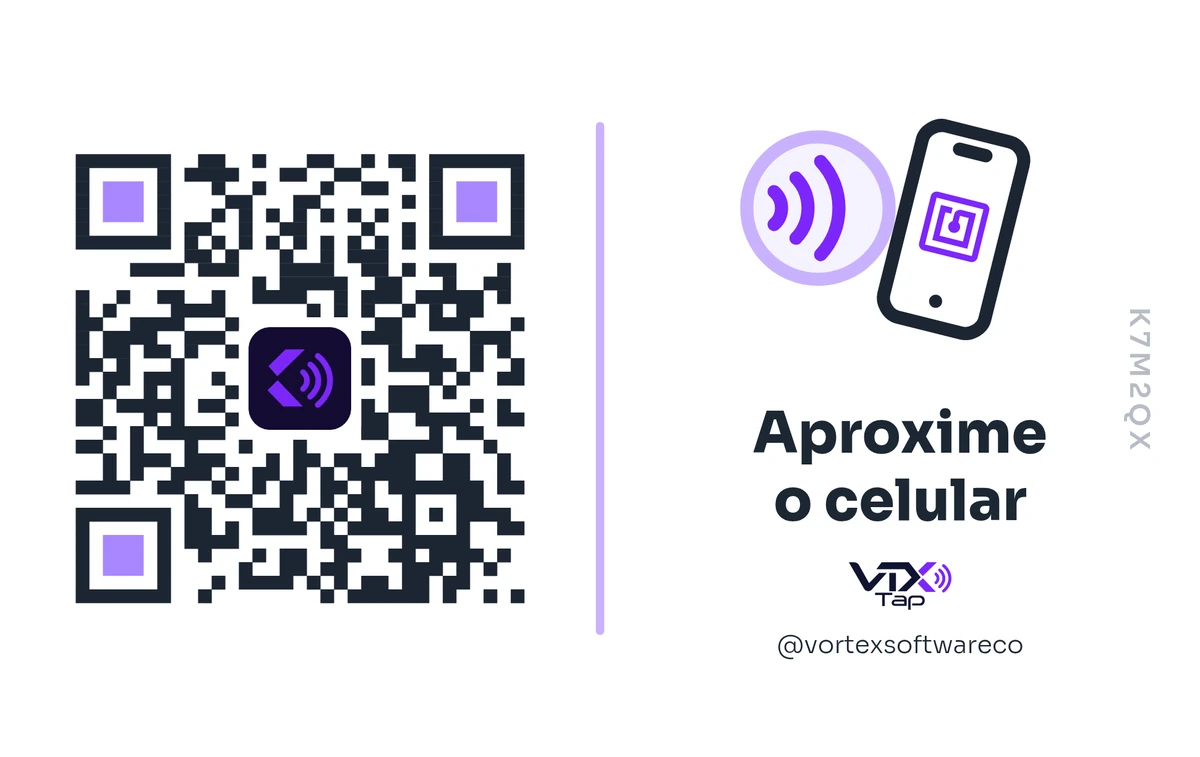
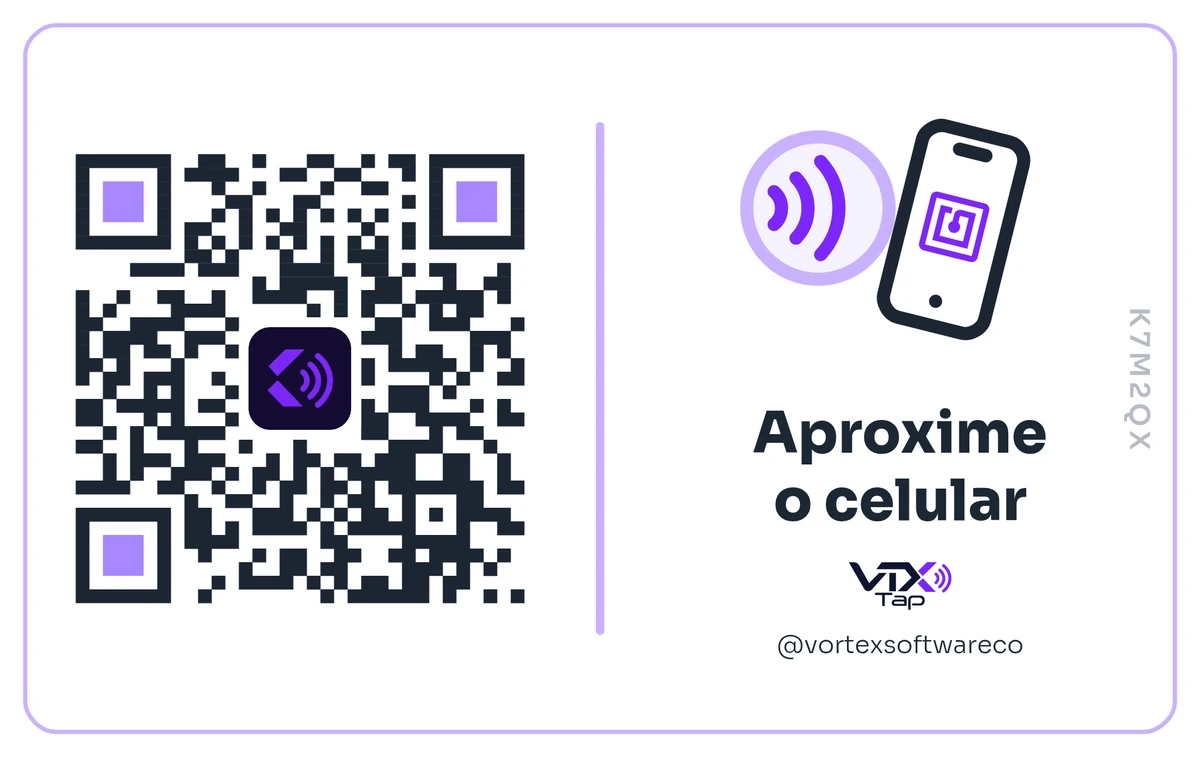
Plaquinha: contorno fininho por dentro, em roxo claro ou na cor do restaurante
Claude-Session: https://claude.ai/code/session_01SquUYhy9CJfd3RStheVeY3

Changed region(s): [[0.0308, 0.0304, 0.9867, 0.9723], [0.0, 0.0608, 0.0308, 0.9419]]

diff --git a/central/placa.js b/central/placa.js
@@ -2,7 +2,8 @@
  * PDF das plaquinhas para a gráfica: uma plaquinha por página, no tamanho exato de um
  * cartão de crédito (ISO/IEC 7810 ID-1: 85,60 × 53,98 mm, cantos com raio de 3,18 mm).
  *
- * Layout: fundo branco, divisória em roxo claro no meio exato do cartão. À esquerda, o QR
+ * Layout: fundo branco com um contorno fininho por dentro, divisória no meio exato do cartão
+ * (os dois em roxo claro, ou nos tons da cor do restaurante no personalizado). À esquerda, o QR
  * centralizado, com uma logo no meio e o miolo dos três quadrados de canto em roxo claro.
  * À direita, centralizados na mesma linha: o ícone de NFC grande, "Aproxime o celular" e o @.
  * O código da plaquinha sai pequeno, em pé na lateral direita (lido de cima para baixo).
@@ -222,6 +223,11 @@
       // Esquerda: QR com a logo no meio (padrão: VTX Tap; personalizado: a do restaurante).
       const logoMeio = (modelo === 'personalizado' && it.logo && logos[it.logo]) || vtx;
       const pal = modelo === 'personalizado' ? paleta(it.cor) : PALETA_VTX;
+      // Contorno fininho por dentro do cartão, na cor de destaque (roxo claro ou a cor do restaurante).
+      const bordaIn = 1.8;
+      doc.setDrawColor(pal.claro);
+      doc.setLineWidth(0.3);
+      doc.roundedRect(bordaIn, bordaIn, L - 2 * bordaIn, A - 2 * bordaIn, PLACA.raio - 1, PLACA.raio - 1, 'S');
       const meio = desenharQr(doc, it.url, qrX, qrY, qr, 0.26, pal.qr);
       if (logoMeio) {
         const f = meio.lado * 0.08;
